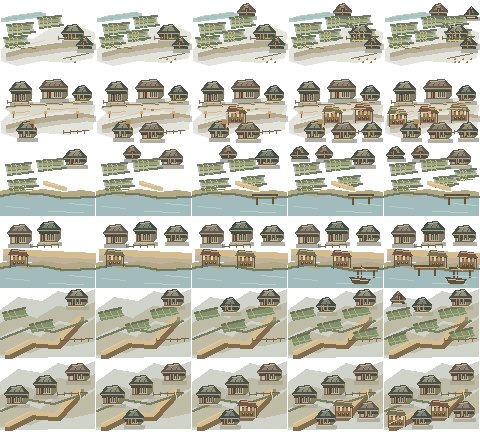
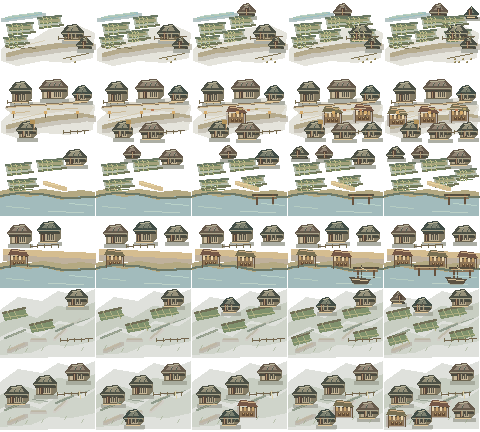
Publish mountain fort and hillside art across six castles

Changed region(s): [[0.0, 0.6921, 1.0, 0.8426], [0.0, 0.8727, 1.0, 1.0]]

diff --git a/sw.js b/sw.js
@@ -1,5 +1,5 @@
 // Generated from the exact production build, not from a manually maintained list.
-const CACHE="sengoku-hex-d5025d59b72a";
+const CACHE="sengoku-hex-b3d910dd06db";
 const PREFIX="sengoku-hex-";
 const FILES=["./assets/audio/battle.mp3","./assets/audio/battleDefeat.mp3","./assets/audio/battleVictory.mp3","./assets/audio/cancel.mp3","./assets/audio/castleFall.mp3","./assets/audio/cavalry.mp3","./assets/audio/confirm.mp3","./assets/audio/defeat.mp3","./assets/audio/deploy.mp3","./assets/audio/diplomacySuccess.mp3","./assets/audio/endingConfirm.mp3","./assets/audio/monthAdvance.mp3","./assets/audio/recruitSuccess.mp3","./assets/audio/select.mp3","./assets/audio/strategy.mp3","./assets/audio/title.mp3","./assets/audio/unify.mp3","./assets/audio/victory.mp3","./assets/BitmapFont-BCU-DZ7A.js","./assets/browserAll-C-nEqZnP.js","./assets/CanvasRenderer-DYhxU7uX.js","./assets/Filter-DmN7vRmm.js","./assets/getTexelRangeRects-B8-uo5qE.js","./assets/images/f1/portraits/honda.webp","./assets/images/f1/portraits/matsudaira.webp","./assets/images/f1/portraits/oda.webp","./assets/images/f1/portraits/shibata.webp","./assets/images/f1/portraits/takeda.webp","./assets/images/f1/title.webp","./assets/images/f2/anjo-lowland-scene.webp","./assets/images/f2/archer-four-direction-56.webp","./assets/images/f2/battle-paper.webp","./assets/images/f2/castle-keep.webp","./assets/images/f2/castle-mountain.webp","./assets/images/f2/castle-pixelorama.webp","./assets/images/f2/castle-riverside.webp","./assets/images/f2/cavalry-four-direction-56.webp","./assets/images/f2/forest.webp","./assets/images/f2/matchlock-four-direction-56.webp","./assets/images/f2/mountain-scene.webp","./assets/images/f2/mountain.webp","./assets/images/f2/plain.webp","./assets/images/f2/riverside-scene.webp","./assets/images/f2/settlement-pixelorama.webp","./assets/images/f2/spearman-four-direction-56.webp","./assets/images/f2/terrain-pixelorama.webp","./assets/images/f2/timber-bridge.webp","./assets/images/f2/town-quarters.webp","./assets/images/f3/castle-fall.webp","./assets/images/f3/departure.webp","./assets/images/f3/diplomacy.webp","./assets/images/f3/recruitment.webp","./assets/images/f3/retreat.webp","./assets/images/f3/siege-defense.webp","./assets/images/f3/submission.webp","./assets/images/f3/unify.webp","./assets/images/strategy/anjo-paddy-approach.webp","./assets/images/strategy/castles/mountain-0.webp","./assets/images/strategy/castles/mountain-1.webp","./assets/images/strategy/castles/plain-0.webp","./assets/images/strategy/castles/plain-1.webp","./assets/images/strategy/castles/riverside-0.webp","./assets/images/strategy/castles/riverside-1.webp","./assets/images/strategy/central-honshu-relief.webp","./assets/images/strategy/quarters/farm-1.webp","./assets/images/strategy/quarters/farm-2.webp","./assets/images/strategy/quarters/farm-3.webp","./assets/images/strategy/quarters/farm-4.webp","./assets/images/strategy/quarters/farm-5.webp","./assets/images/strategy/quarters/hill-farm-1.webp","./assets/images/strategy/quarters/hill-farm-2.webp","./assets/images/strategy/quarters/hill-farm-3.webp","./assets/images/strategy/quarters/hill-farm-4.webp","./assets/images/strategy/quarters/hill-farm-5.webp","./assets/images/strategy/quarters/hill-market-1.webp","./assets/images/strategy/quarters/hill-market-2.webp","./assets/images/strategy/quarters/hill-market-3.webp","./assets/images/strategy/quarters/hill-market-4.webp","./assets/images/strategy/quarters/hill-market-5.webp","./assets/images/strategy/quarters/market-1.webp","./assets/images/strategy/quarters/market-2.webp","./assets/images/strategy/quarters/market-3.webp","./assets/images/strategy/quarters/market-4.webp","./assets/images/strategy/quarters/market-5.webp","./assets/images/strategy/quarters/river-farm-1.webp","./assets/images/strategy/quarters/river-farm-2.webp","./assets/images/strategy/quarters/river-farm-3.webp","./assets/images/strategy/quarters/river-farm-4.webp","./assets/images/strategy/quarters/river-farm-5.webp","./assets/images/strategy/quarters/river-market-1.webp","./assets/images/strategy/quarters/river-market-2.webp","./assets/images/strategy/quarters/river-market-3.webp","./assets/images/strategy/quarters/river-market-4.webp","./assets/images/strategy/quarters/river-market-5.webp","./assets/images/strategy/settlements/farm-1.webp","./assets/images/strategy/settlements/farm-2.webp","./assets/images/strategy/settlements/farm-3.webp","./assets/images/strategy/settlements/farm-4.webp","./assets/images/strategy/settlements/farm-5.webp","./assets/images/strategy/settlements/market-1.webp","./assets/images/strategy/settlements/market-2.webp","./assets/images/strategy/settlements/market-3.webp","./assets/images/strategy/settlements/market-4.webp","./assets/images/strategy/settlements/market-5.webp","./assets/index-B6NkReIw.js","./assets/index-D3BtSnAH.css","./assets/RenderTargetSystem-CasnkdJq.js","./assets/war-display-bold-2riStNe4.woff2","./assets/war-ui-400-4dGCN58M.woff2","./assets/war-ui-700-C3wh_X9J.woff2","./assets/WebGLRenderer-Bze-iKSZ.js","./assets/WebGPURenderer-KpxzIw4H.js","./assets/webworkerAll-Bx0fAsUp.js","./icons/sengoku-192.png","./icons/sengoku-512.png","./index.html","./manifest.webmanifest"];
 self.addEventListener("install",event=>{event.waitUntil((async()=>{
